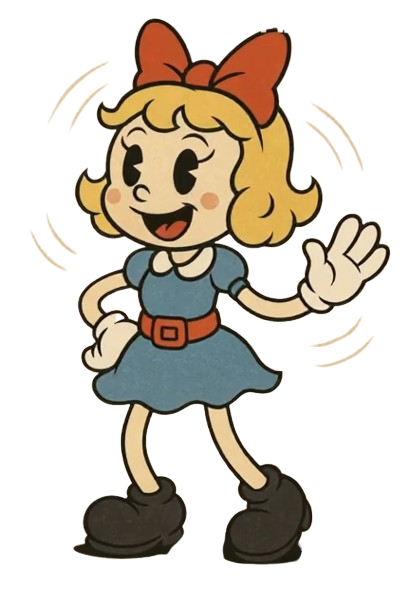
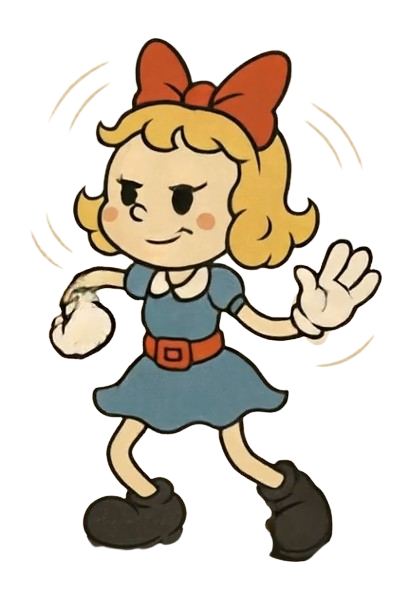
Animação Completa Alice Matheus e Oscar

Changed region(s): [[0.1171, 0.0312, 0.9659, 0.9375], [0.1756, 0.875, 0.439, 0.9375]]

diff --git a/Classes/Alice.py b/Classes/Alice.py
@@ -28,23 +28,14 @@ class Alice(pygame.sprite.Sprite):
 
     def ataque_bolinho(self):
 
-        if (pygame.time.get_ticks() - self.t0_bolinho) % 750 < 100:
-            self.image = LISTA_ALICE_BOLINHO[0]
-        elif (pygame.time.get_ticks() - self.t0_bolinho) % 750 < 200:
-            self.image = LISTA_ALICE_BOLINHO[1]
-        elif (pygame.time.get_ticks() - self.t0_bolinho) % 750 < 300:
-            self.image = LISTA_ALICE_BOLINHO[2]
-        elif (pygame.time.get_ticks() - self.t0_bolinho) % 750 < 400:
-            self.image = LISTA_ALICE_BOLINHO[3]
-        elif (pygame.time.get_ticks() - self.t0_bolinho) % 750 < 500:
-            self.image = LISTA_ALICE_BOLINHO[4]
+        delta_t = pygame.time.get_ticks() - self.t0_bolinho
+        indice = delta_t // 40
+        if indice == 6:
             if not self.atacou_bolinho:
-                self.grupo_bolinhos.add(Bolinho(self.rect.x, self.rect.y, self.angulo_bolinho))
+                self.grupo_bolinhos.add(Bolinho(self.rect.centerx, self.rect.centery, self.angulo_bolinho))
                 self.atacou_bolinho = True
-            # fazer condições pro bolinho pra cada lado
-        elif (pygame.time.get_ticks() - self.t0_bolinho) % 750 < 600:
-            self.image = LISTA_ALICE_BOLINHO[5]
-        else:
+                # fazer condições pro bolinho pra cada lado
+        elif indice > 10:
             self.image = LISTA_ALICE_SUPER_BOLO[0]
             self.atacando_bolinho = False
             self.atacou_bolinho = False
@@ -58,36 +49,34 @@ class Alice(pygame.sprite.Sprite):
                 else:
                     self.andando = False
                     self.direcao = None
+        else:
+            self.image = LISTA_ALICE_BOLINHO[indice]
         
-        if 90 < self.angulo_bolinho < 270:
+        if 0 <= self.angulo_bolinho <= 90 or 270 <= self.angulo_bolinho <= 360:
             self.image = pygame.transform.flip(self.image, True, False)
+        
     
 
     def super_bolo(self):
 
-        if (pygame.time.get_ticks() - self.t0_bolinho) % 2000 < 250:
-            self.image = LISTA_ALICE_SUPER_BOLO[0]
-        elif (pygame.time.get_ticks() - self.t0_bolinho) % 2000 < 500:
-            self.image = LISTA_ALICE_SUPER_BOLO[1]
-        elif (pygame.time.get_ticks() - self.t0_bolinho) % 2000 < 750:
-            self.image = LISTA_ALICE_SUPER_BOLO[2]
-        elif (pygame.time.get_ticks() - self.t0_bolinho) % 2000 < 1000:
-            self.image = LISTA_ALICE_SUPER_BOLO[3]
-        elif (pygame.time.get_ticks() - self.t0_bolinho) % 2000 < 1250:
-            self.image = LISTA_ALICE_SUPER_BOLO[4]
-        elif (pygame.time.get_ticks() - self.t0_bolinho) % 2000 < 1500:
-            self.image = LISTA_ALICE_SUPER_BOLO[5]
+        delta_t = pygame.time.get_ticks() - self.t0_superbolo
+        indice = delta_t // 50
+        if indice == 8:
             if not self.atacou_superbolo:
-                self.grupo_bolinhos.add(Bolinho(self.rect.x, self.rect.y, 30))
-                self.grupo_bolinhos.add(Bolinho(self.rect.x, self.rect.y, 60))
-                self.grupo_bolinhos.add(Bolinho(self.rect.x, self.rect.y, 90))
-                self.grupo_bolinhos.add(Bolinho(self.rect.x, self.rect.y, -30))
-                self.grupo_bolinhos.add(Bolinho(self.rect.x, self.rect.y, -60))
+                self.grupo_bolinhos.add(Bolinho(self.rect.centerx, self.rect.centery, 0))
+                self.grupo_bolinhos.add(Bolinho(self.rect.centerx, self.rect.centery, 30))
+                self.grupo_bolinhos.add(Bolinho(self.rect.centerx, self.rect.centery, 60))
+                self.grupo_bolinhos.add(Bolinho(self.rect.centerx, self.rect.centery, 90))
+                self.grupo_bolinhos.add(Bolinho(self.rect.centerx, self.rect.centery, 120))
+                self.grupo_bolinhos.add(Bolinho(self.rect.centerx, self.rect.centery, 150))
+                self.grupo_bolinhos.add(Bolinho(self.rect.centerx, self.rect.centery, 180))
                 self.atacou_superbolo = True
-        elif (pygame.time.get_ticks() - self.t0_bolinho) % 2000 < 1750: 
-            self.image = self.image = LISTA_ALICE_SUPER_BOLO[0]
+        if indice > 10:
             self.atacando_superbolo = False
             self.atacou_superbolo = False
+        
+        else:
+            self.image = LISTA_ALICE_SUPER_BOLO[indice]
 
 
     def andar(self, direcao):
@@ -102,24 +91,17 @@ class Alice(pygame.sprite.Sprite):
 
         self.t0_andar_movimentacao = now
         
-        if (pygame.time.get_ticks() - self.t0_andar_animacao) % 750 < 125:
-            self.image = LISTA_ALICE_CORRENDO[0]
-        elif (pygame.time.get_ticks() - self.t0_andar_animacao) % 750 < 250:
-            self.image = LISTA_ALICE_CORRENDO[1]
-        elif (pygame.time.get_ticks() - self.t0_andar_animacao) % 750 < 375:
-            self.image = LISTA_ALICE_CORRENDO[2]
-        elif (pygame.time.get_ticks() - self.t0_andar_animacao) % 750 < 500:
-            self.image = LISTA_ALICE_CORRENDO[3]
-        elif (pygame.time.get_ticks() - self.t0_andar_animacao) % 750 < 625:
-            self.image = LISTA_ALICE_CORRENDO[4]
-        else:
-            self.image = LISTA_ALICE_CORRENDO[0]
+
+        delta_t = (pygame.time.get_ticks() - self.t0_andar_animacao) % (70*18)
+        indice = delta_t // 70
+        self.image = LISTA_ALICE_CORRENDO[indice]
+
 
         if direcao == "Direita":
             self.image = pygame.transform.rotate(self.image, -10)
+            self.image = pygame.transform.flip(self.image, True, False)
         elif direcao == "Esquerda":
             self.image = pygame.transform.rotate(self.image, -10)
-            self.image = pygame.transform.flip(self.image, True, False)
 
     
     def pular_movimentacao(self, direcao):
@@ -146,8 +128,8 @@ class Alice(pygame.sprite.Sprite):
     
     def pular_animacao(self, direcao):
 
-        delta_t = (pygame.time.get_ticks() - self.t0_pular_animacao) % 2000
-        indice = delta_t // 250 if delta_t < 1000 else -1 - (-1000 + delta_t) // 250
+        delta_t = (pygame.time.get_ticks() - self.t0_bolinho) % (8*250)
+        indice = delta_t // 250
         self.image = LISTA_ALICE_PULANDO[indice]
         
         if direcao == "Direita":
@@ -184,10 +166,10 @@ class Alice(pygame.sprite.Sprite):
                 if evento.button == 2 and pygame.time.get_ticks() - self.t0_atacou_bolinho > 1000:
                     self.atacando_bolinho = True
                     self.angulo_bolinho = self.angulo
-                    self.t0_atacou_bolinho = pygame.time.get_ticks()
+                    self.t0_atacou_bolinho = self.t0_bolinho = pygame.time.get_ticks()
                 if evento.button == 3 and pygame.time.get_ticks() - self.t0_atacou_superbolo > 5000:
                     self.atacando_superbolo = True
-                    self.t0_atacou_superbolo = pygame.time.get_ticks()
+                    self.t0_atacou_superbolo = self.t0_superbolo = pygame.time.get_ticks()
                 if evento.button == 0:
                     if not self.pulando:
                         self.t0_pular_animacao = self.t0_pular_movimentacao = pygame.time.get_ticks()

diff --git a/constantes.py b/constantes.py
@@ -39,20 +39,20 @@ MUSICA_FUNDO_GAMEOVER = pygame.mixer.Sound(os.path.join("Assets/Sons", "Prelude 
 
 # Alice:
 LISTA_ALICE_BOLINHO = list()
-for i in range(1, 11):
-    LISTA_ALICE_BOLINHO.append(pygame.transform.scale(pygame.image.load(os.path.join("Assets/Imagens/Alice e Bolinho/Alice Bolinho",f"{i}.png")), (113, 170)))
+for i in range(1, 12):
+    LISTA_ALICE_BOLINHO.append(pygame.transform.scale(pygame.image.load(os.path.join("Assets/Imagens/Alice e Bolinho/Alice Bolinho",f"{i}.png")), (170, 255)))
 
 LISTA_ALICE_CORRENDO = list()
-for i in range(1, 19):
-    LISTA_ALICE_CORRENDO.append(pygame.transform.scale(pygame.image.load(os.path.join("Assets/Imagens/Alice e Bolinho/Alice Correndo",f"{i}.png")), (113, 170)))
+for i in range(1, 20):
+    LISTA_ALICE_CORRENDO.append(pygame.transform.scale(pygame.image.load(os.path.join("Assets/Imagens/Alice e Bolinho/Alice Correndo",f"{i}.png")), (170, 255)))
 
 LISTA_ALICE_PULANDO = list()
-for i in range(1, 26):
-    LISTA_ALICE_PULANDO.append(pygame.transform.scale(pygame.image.load(os.path.join("Assets/Imagens/Alice e Bolinho/Alice Pulando",f"{i}.png")), (113, 170)))
+for i in range(1, 9):
+    LISTA_ALICE_PULANDO.append(pygame.transform.scale(pygame.image.load(os.path.join("Assets/Imagens/Alice e Bolinho/Alice Pulando",f"{i}.png")), (170, 255)))
 
 LISTA_ALICE_SUPER_BOLO = list()
-for i in range(1, 13):
-    LISTA_ALICE_SUPER_BOLO.append(pygame.transform.scale(pygame.image.load(os.path.join("Assets/Imagens/Alice e Bolinho/Alice SuperBolo",f"{i}.png")), (113, 170)))
+for i in range(1, 12):
+    LISTA_ALICE_SUPER_BOLO.append(pygame.transform.scale(pygame.image.load(os.path.join("Assets/Imagens/Alice e Bolinho/Alice SuperBolo",f"{i}.png")), (170, 255)))
 
 
 
@@ -74,10 +74,6 @@ FUNDO_TELA_INICAL = [
 # Tela Coelho:
 LISTA_FUNDO_COELHO = [
     pygame.transform.scale(pygame.image.load(os.path.join("Assets/Imagens/Tela Coelho","Fundo_Coelho_01.png")), (LARGURA_TELA, ALTURA_TELA)),
-    pygame.transform.scale(pygame.image.load(os.path.join("Assets/Imagens/Tela Coelho","Fundo_Coelho_01.png")), (LARGURA_TELA, ALTURA_TELA)),
-    pygame.transform.scale(pygame.image.load(os.path.join("Assets/Imagens/Tela Coelho","Fundo_Coelho_01.png")), (LARGURA_TELA, ALTURA_TELA)),
-    pygame.transform.scale(pygame.image.load(os.path.join("Assets/Imagens/Tela Coelho","Fundo_Coelho_01.png")), (LARGURA_TELA, ALTURA_TELA)),
-    pygame.transform.scale(pygame.image.load(os.path.join("Assets/Imagens/Tela Coelho","Fundo_Coelho_02.png")), (LARGURA_TELA, ALTURA_TELA)),
 ]
 LISTA_COELHO_CORRENDO  = [
     pygame.transform.scale(pygame.image.load(os.path.join("Assets/Imagens/Tela Coelho","Coelho_Correndo_02.png")), (170, 170)),

diff --git a/Classes/Coelho.py b/Classes/Coelho.py
@@ -11,9 +11,10 @@ class Coelho():
         self.t0 = self.t0_inicio = self.t0_pulo = pygame.time.get_ticks()
         self.image = LISTA_COELHO_CORRENDO[0]
         self.pulo = False
-        self.velocidade_x = 70
-        self.velocidade_y = -90
-        self.aceleracao_y = 40
+        self.velocidade_x = 300
+        self.velocidade_x_fim = 700
+        self.velocidade_y = -500
+        self.aceleracao_y = 1000
 
 
     def movimentar(self):
@@ -46,8 +47,8 @@ class Coelho():
         self.pos_y += self.velocidade_y * self.dt_pulo
 
         if self.pos_y > self.pos_y_inicial - 30:
-            self.velocidade_x = 40
-            self.image.set_alpha(255- self.i*20)
+            self.velocidade_x = self.velocidade_x_fim
+            self.image.set_alpha(255- self.i*50)
             self.i += 1
         else:
             self.image = LISTA_COELHO_PULANDO[0]

diff --git a/Telas/Jogo.py b/Telas/Jogo.py
@@ -20,8 +20,8 @@ class Jogo():
     # Além disso, esse método ainda permite que a troca de tela, por exemplo,
     # voltando para uma anterior seja feito por meio do: ' while self.tela_atual != "Sair" '.
     def __init__(self):
-        self.tela_atual = "TelaRanking"
-        self.nivel_atual = 1
+        self.tela_atual = "TelaCoelho"
+        self.nivel_atual = 2
         self.window = pygame.display.set_mode((LARGURA_TELA, ALTURA_TELA))
         self.tela_inicial = TelaInicial()
         self.nome = None

diff --git a/Telas/TelaCoelho.py b/Telas/TelaCoelho.py
@@ -15,7 +15,7 @@ class TelaCoelho:
         self.musica_tocando = False
         self.canal_0 = pygame.mixer.Channel(0)
         self.grupo_alice = pygame.sprite.Group()
-        self.grupo_alice.add(Alice(400, ALTURA_TELA - 150))
+        self.grupo_alice.add(Alice(400, ALTURA_TELA - 140))
         
 
     def desenha(self, window):

diff --git a/Telas/TelaRanking.py b/Telas/TelaRanking.py
@@ -28,8 +28,8 @@ class TelaRanking():
         self.musica_tocando = False
         self.canal_0 = pygame.mixer.Channel(0)
         self.jogador = {
-            "Nome" : "AAAAAAAAAA",
-            "Posição" : 8
+            "Nome" : "JAOOO",
+            "Posição" : 1
         }
 
 
